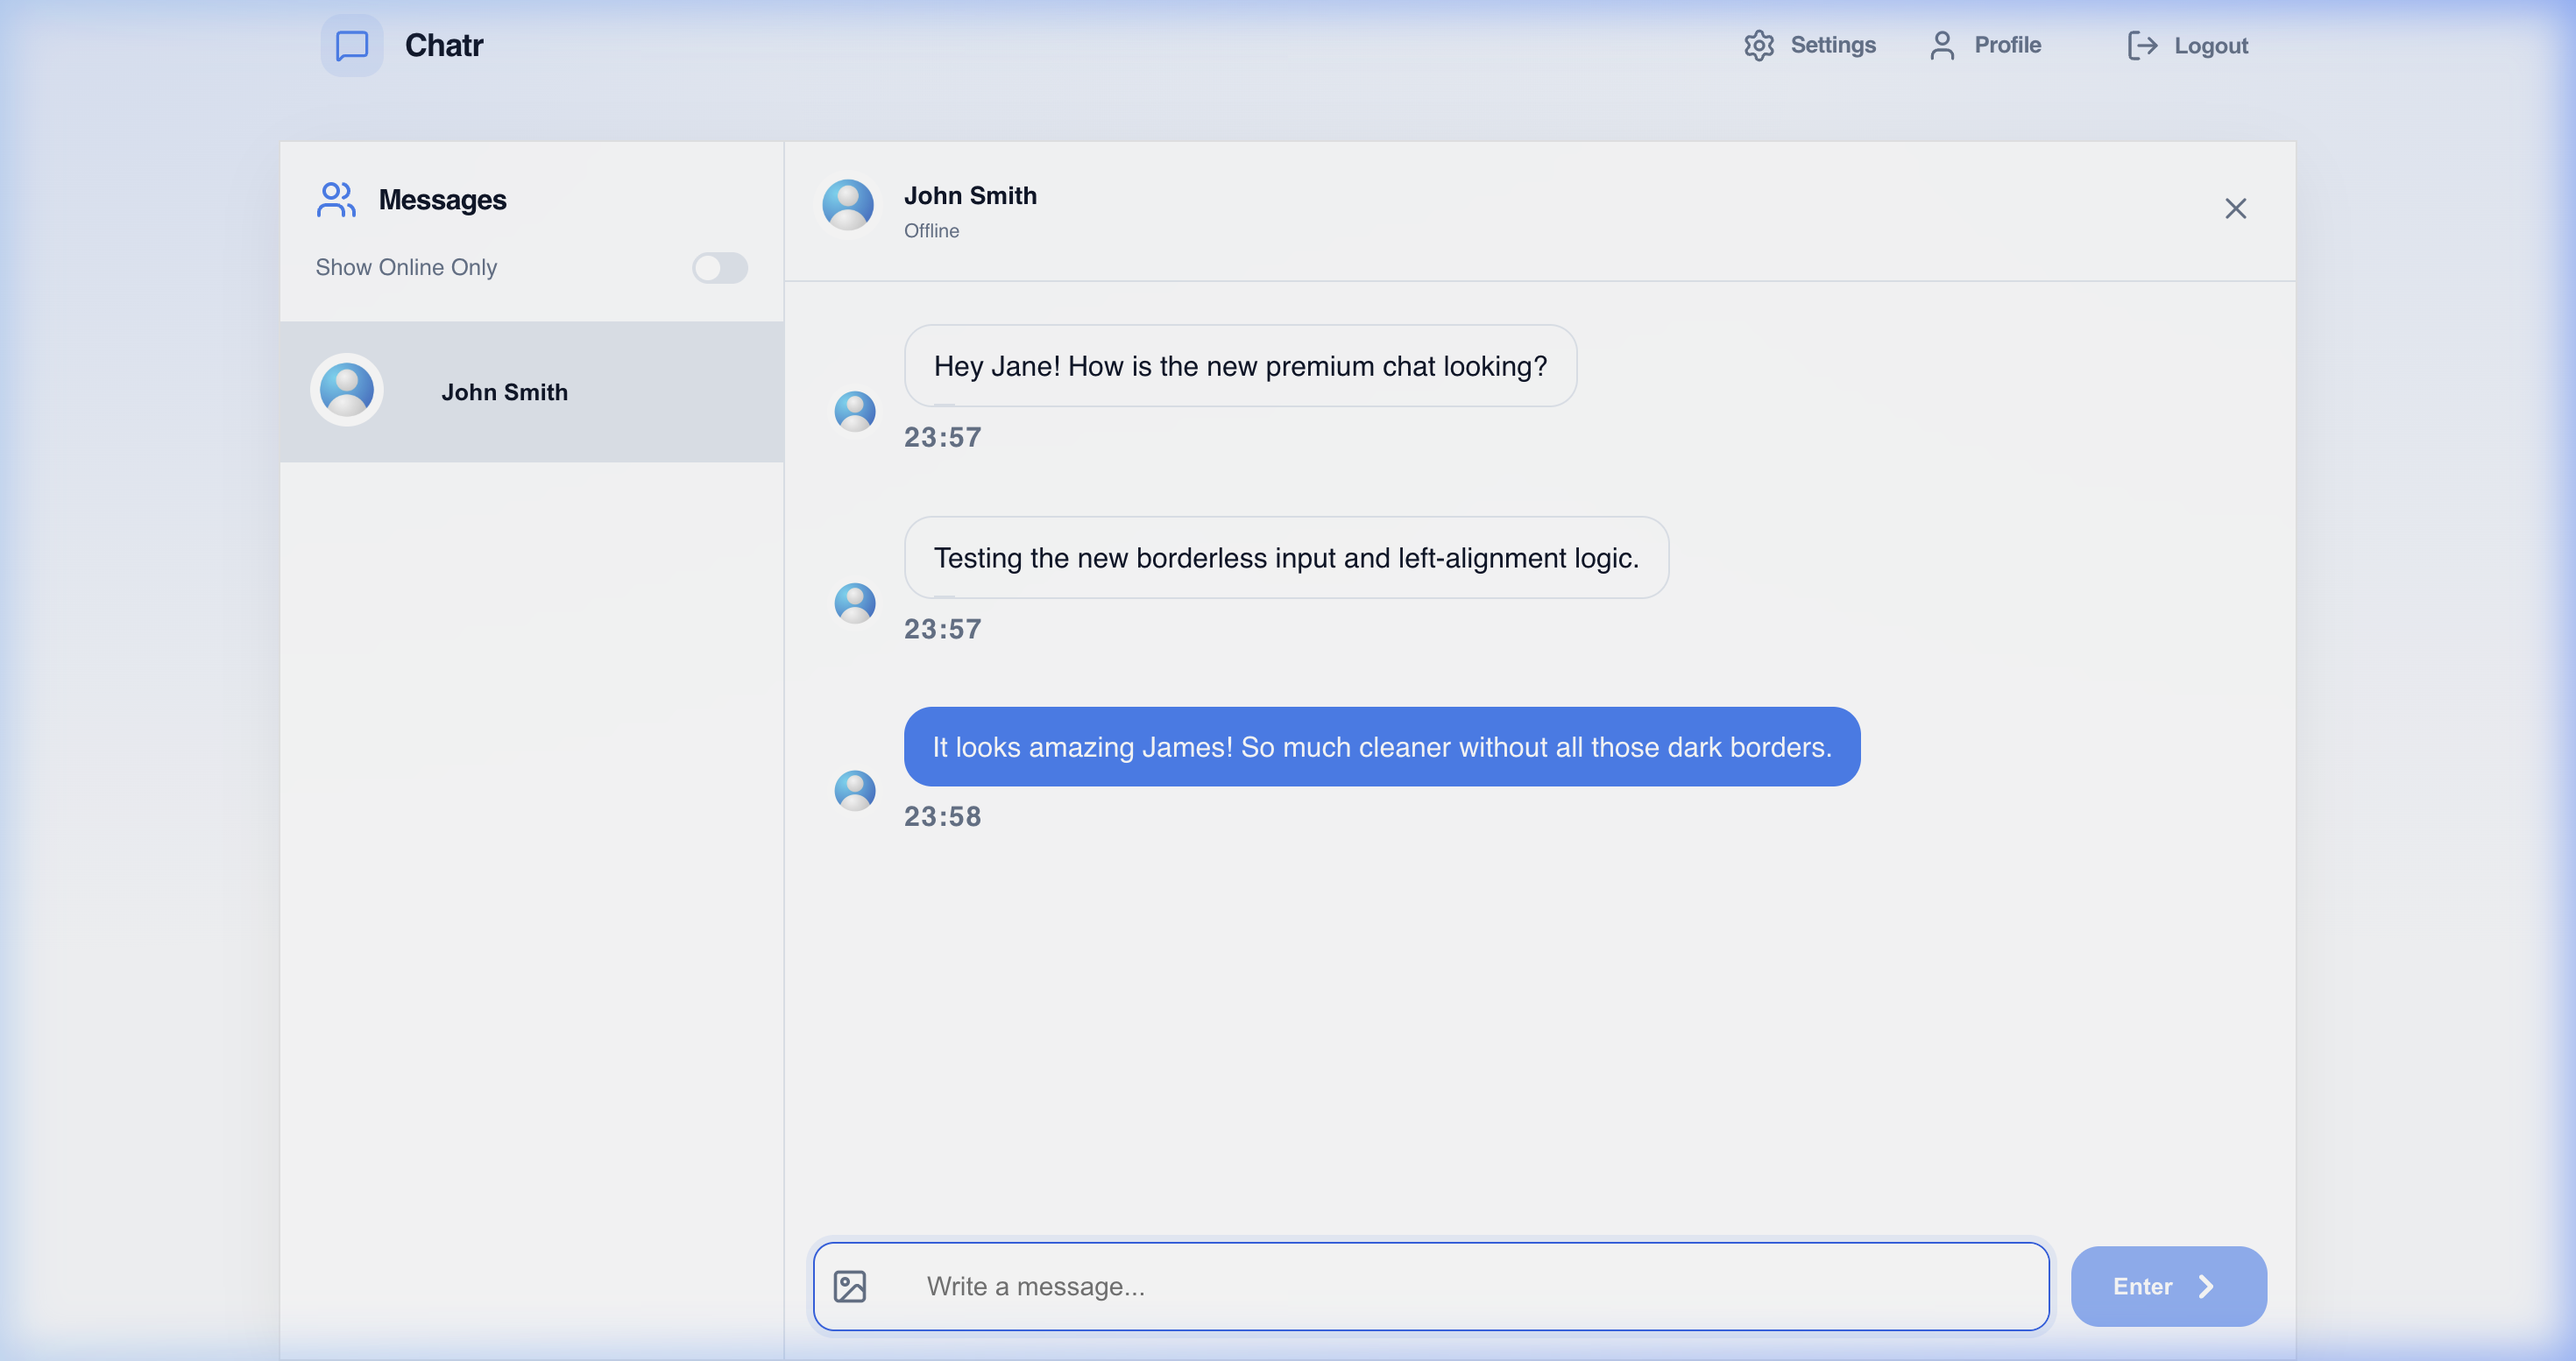
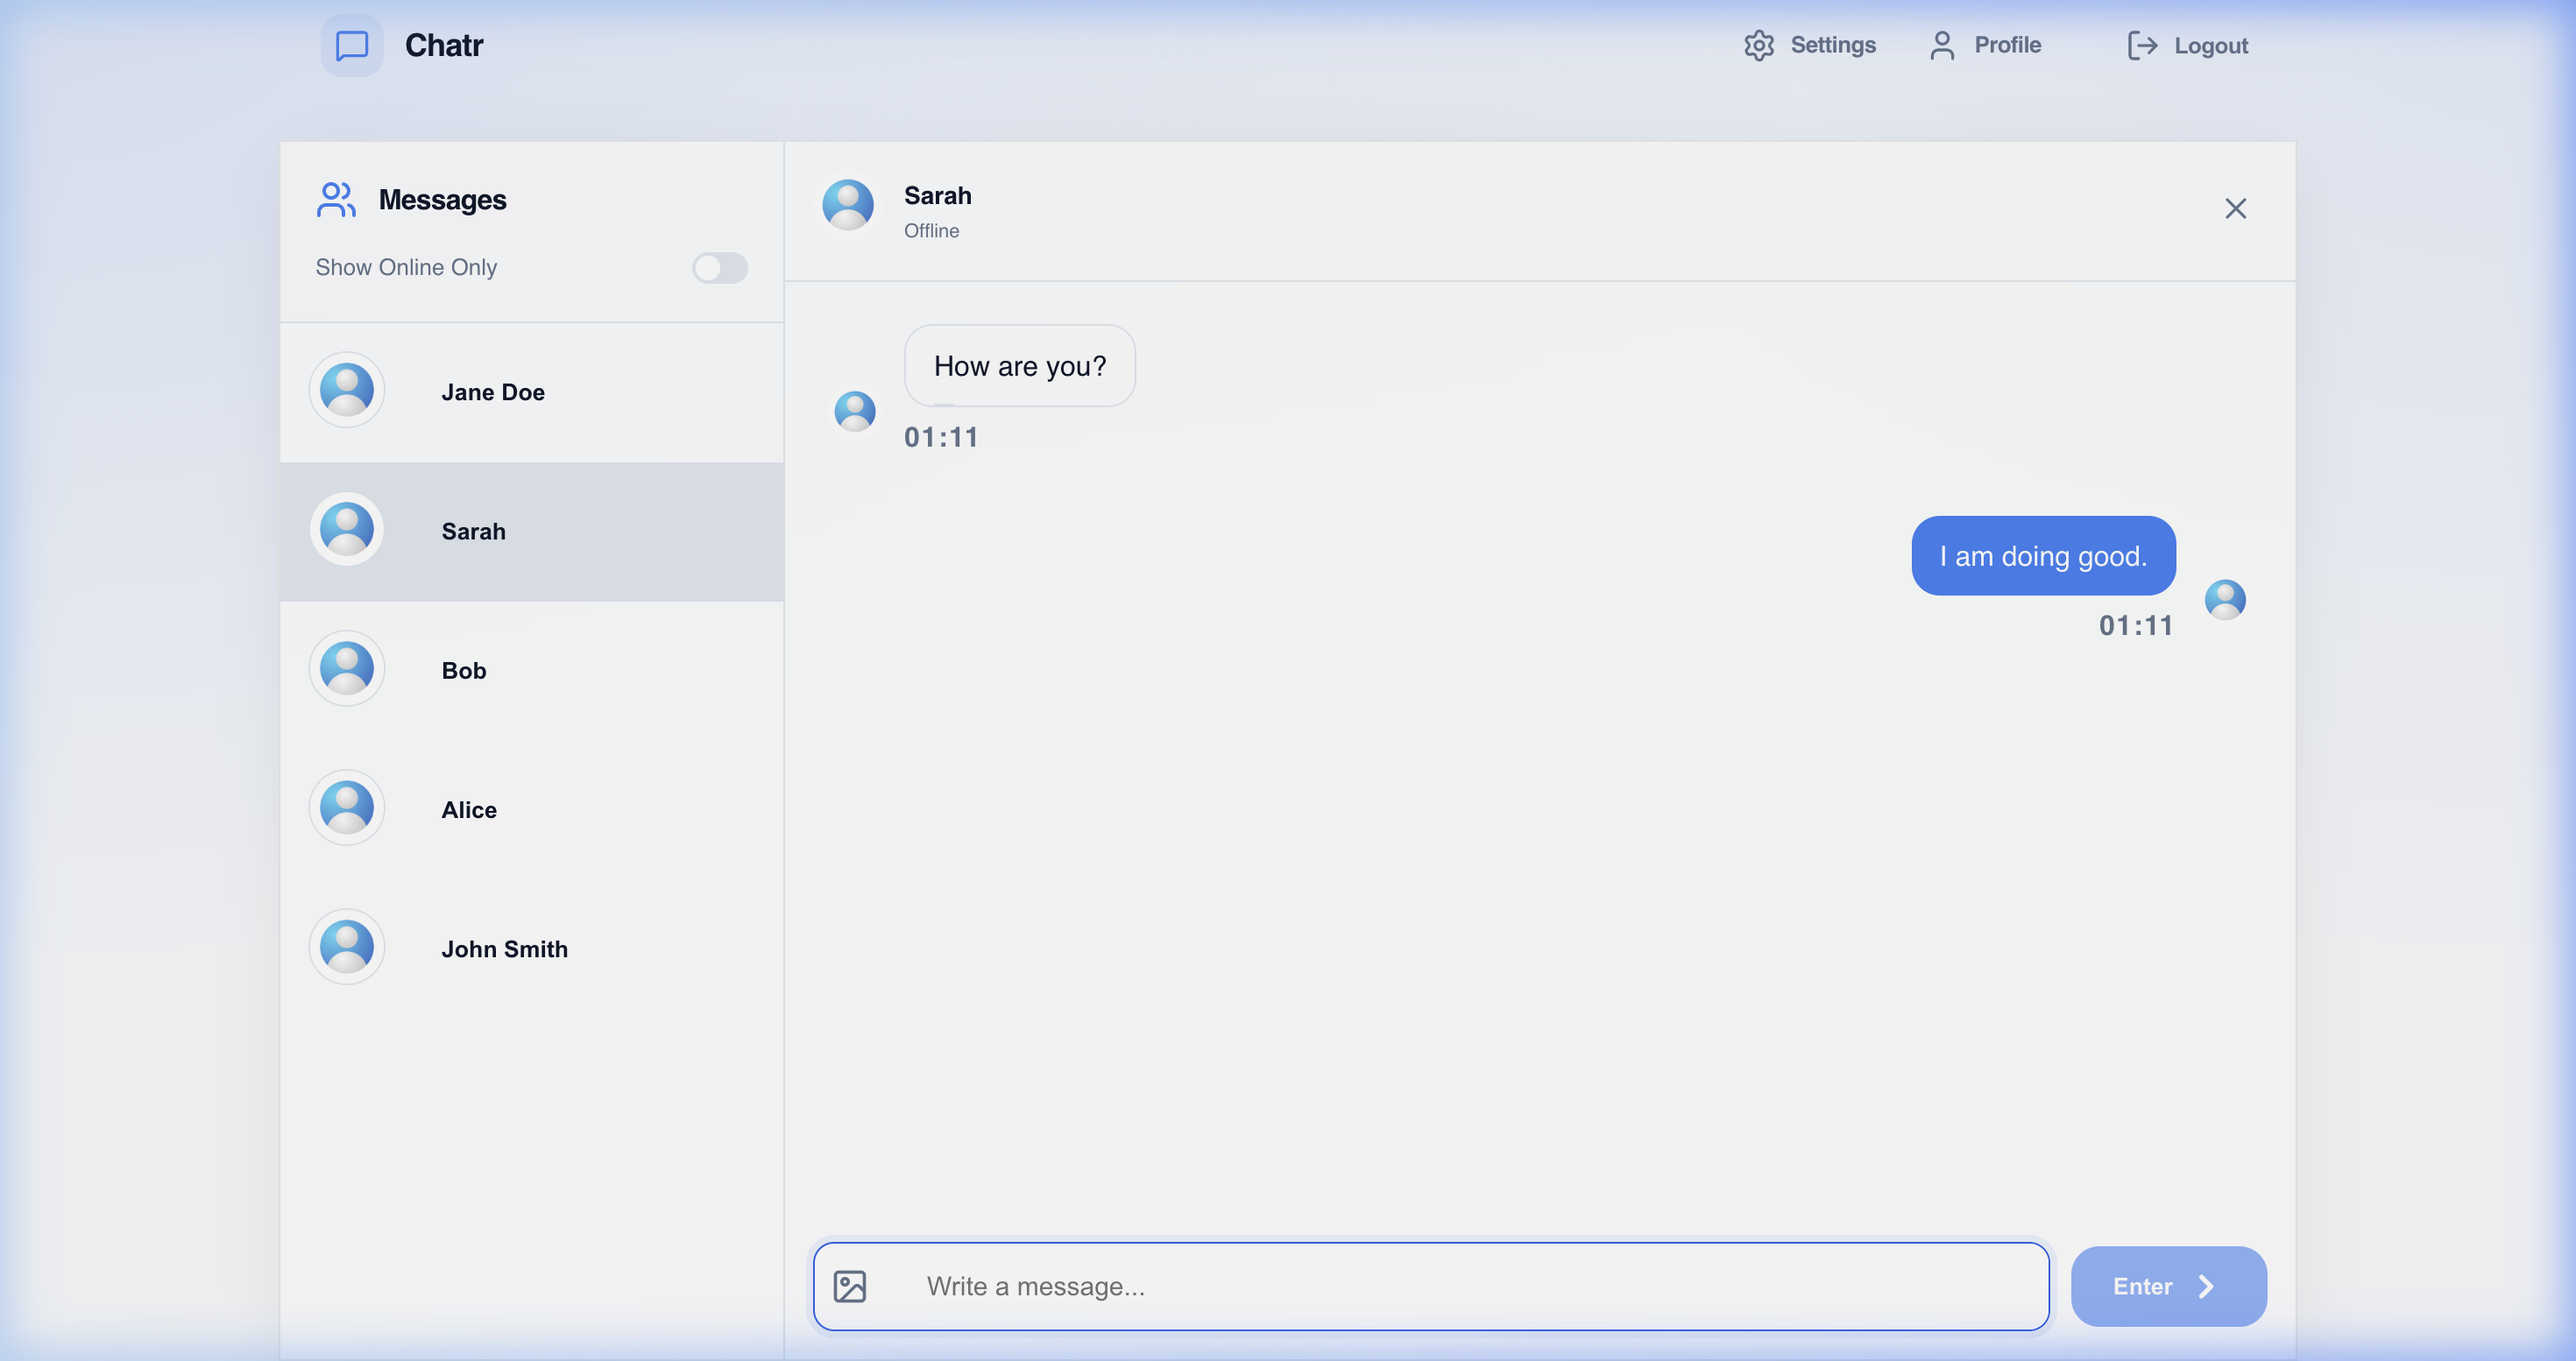
style: restore classic asymmetric chat layout and update verified screenshots

diff --git a/frontend/src/components/ChatContainer.jsx b/frontend/src/components/ChatContainer.jsx
@@ -53,7 +53,9 @@ const ChatContainer = () => {
           return (
             <div
               key={message.messageId}
-              className="flex items-end gap-3 justify-start flex-row"
+              className={`flex w-full items-end gap-3 ${
+                isSentByMe ? "flex-row-reverse justify-start" : "flex-row justify-start"
+              }`}
               ref={messageEndRef}
             >
               {/* Message Avatar */}
@@ -69,20 +71,22 @@ const ChatContainer = () => {
                 />
               </div>
 
-              <div className="flex flex-col gap-1 max-w-[80%] items-start">
+              <div className={`flex flex-col gap-1 max-w-[80%] ${
+                isSentByMe ? "items-end" : "items-start"
+              }`}>
                 <div
                   className={`relative px-4 py-2.5 shadow-sm transition-all ${
                     isSentByMe
-                      ? "bg-primary text-white rounded-2xl rounded-bl-none"
+                      ? "bg-primary text-white rounded-2xl rounded-br-none"
                       : "bg-white text-text-main rounded-2xl rounded-bl-none border border-bg-dark/5 shadow-sm"
                   }`}
                 >
-                  {/* Unified Left-Pointing Tail for "stream" look */}
-                  <div className={`absolute bottom-0 size-3 -left-1 ${
+                  {/* Tail: Conditional Left vs Right */}
+                  <div className={`absolute bottom-0 size-3 ${
                     isSentByMe 
-                      ? "bg-primary" 
-                      : "bg-white border-l border-b border-bg-dark/5"
-                  } [clip-path:polygon(100%_0,100%_100%,0_100%)]`} />
+                      ? "bg-primary -right-1 [clip-path:polygon(0_0,0_100%,100%_100%)]" 
+                      : "bg-white -left-1 border-l border-b border-bg-dark/5 [clip-path:polygon(100%_0,100%_100%,0_100%)]"
+                  }`} />
 
                   {message.image && (
                     <img
@@ -97,7 +101,9 @@ const ChatContainer = () => {
                     </p>
                   )}
                 </div>
-                <div className="flex items-center gap-1.5 px-1">
+                <div className={`flex items-center gap-1.5 px-1 ${
+                  isSentByMe ? "flex-row-reverse" : "flex-row"
+                }`}>
                   <span className="text-[9px] text-text-muted font-bold tracking-wider">
                     {formatMessageTime(message.timestamp)}
                   </span>

diff --git a/frontend/src/index.css b/frontend/src/index.css
@@ -224,6 +224,7 @@ input:checked + .toggle-slider:before {
 .flex { display: flex; }
 .flex-col { flex-direction: column; }
 .flex-row { flex-direction: row; }
+.flex-row-reverse { flex-direction: row-reverse; }
 .items-center { align-items: center; }
 .items-start { align-items: flex-start; }
 .items-end { align-items: flex-end; }
